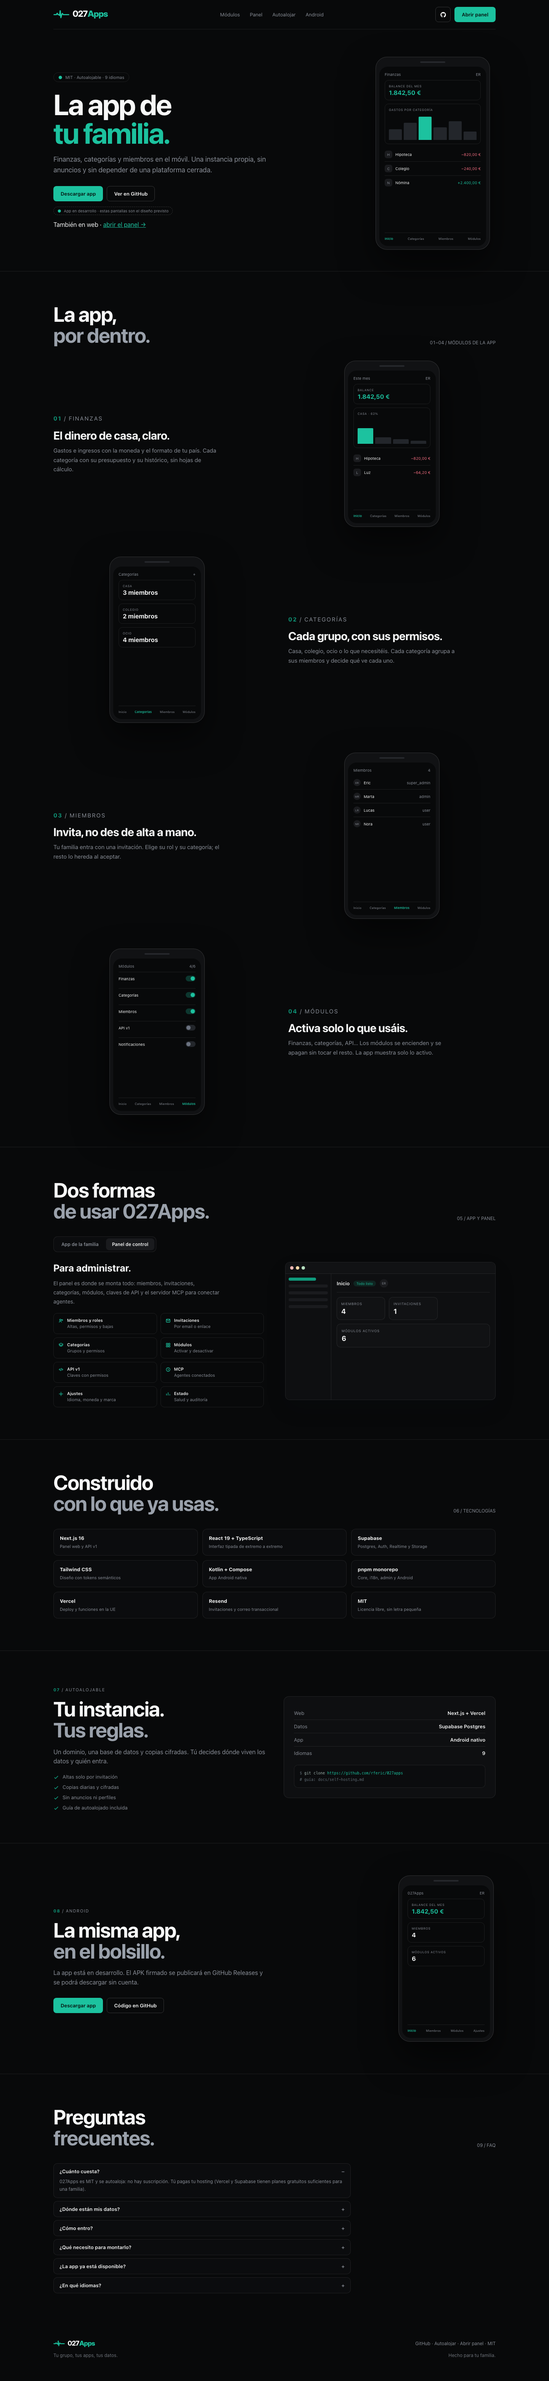
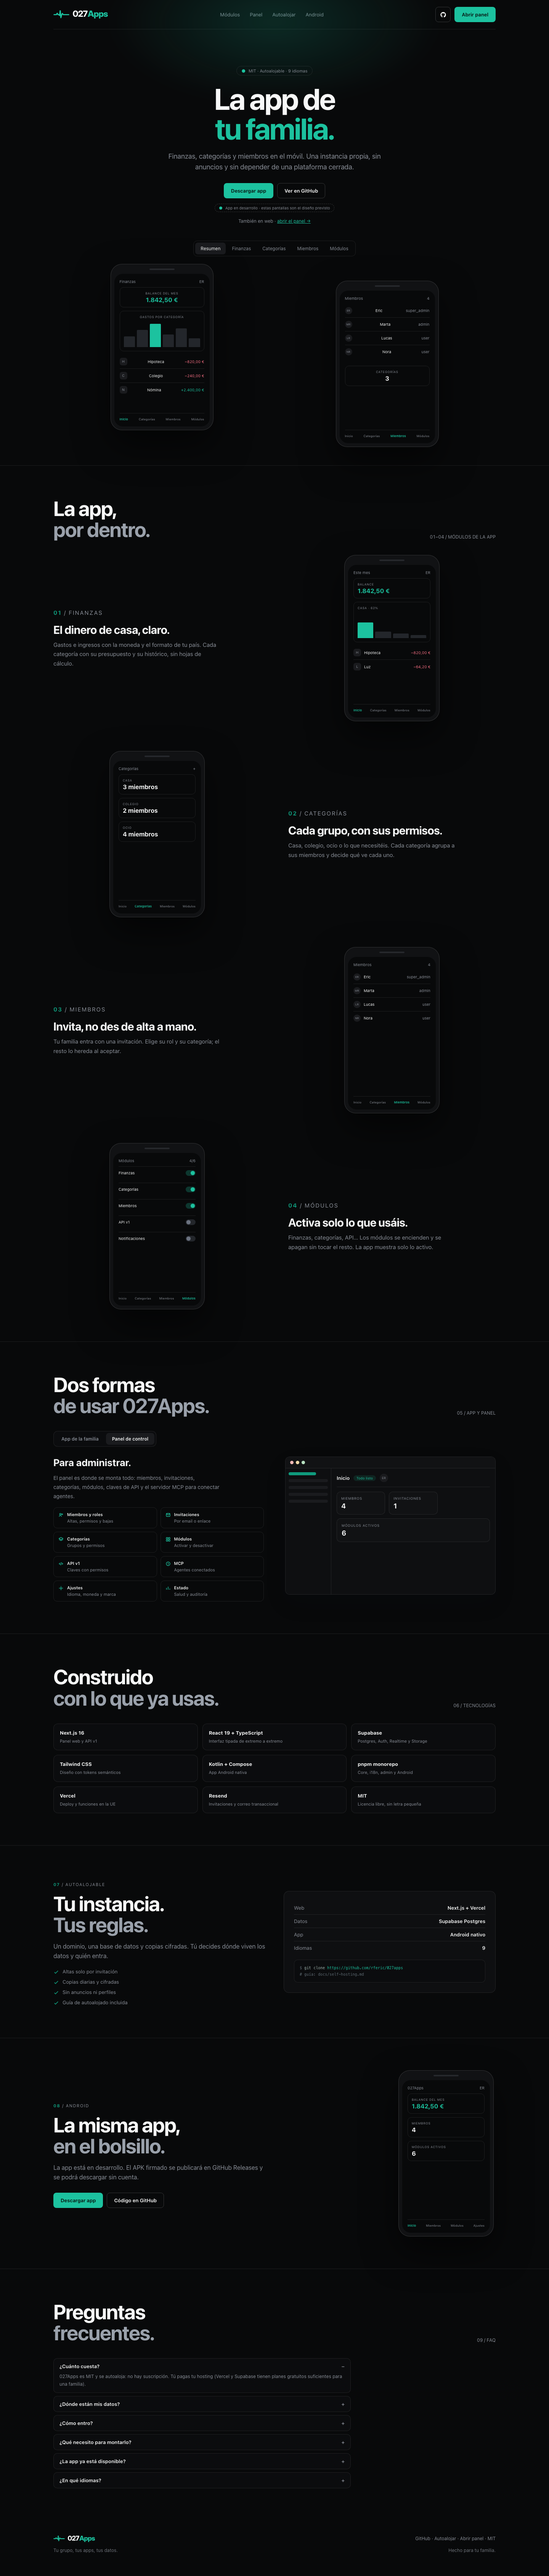
docs(landing): center the app-first hero and restore the glow

diff --git a/docs/mockups/landing/v2-app.html b/docs/mockups/landing/v2-app.html
@@ -28,10 +28,11 @@
       </nav>
     </div>
 
-    <header class="wrap app-hero">
-      <div>
+    <header class="center-hero">
+      <div class="hero-glow"></div>
+      <div class="wrap" style="position: relative">
         <span class="badge" style="display: inline-flex; align-items: center; gap: 8px; border: 1px solid var(--border); border-radius: 999px; padding: 5px 12px; font-size: 11px; color: var(--muted)"><b style="color: #1cc29f">●</b> MIT · Autoalojable · 9 idiomas</span>
-        <h1 class="display" style="margin-top: 22px">La app de<br /><span style="color: #1cc29f">tu familia.</span></h1>
+        <h1>La app de<br /><span style="color: #1cc29f">tu familia.</span></h1>
         <p class="lead">
           Finanzas, categorías y miembros en el móvil. Una instancia propia, sin anuncios y
           sin depender de una plataforma cerrada.
@@ -41,21 +42,45 @@
           <a class="btn ghost" href="https://github.com/rferic/027apps">Ver en GitHub</a>
         </div>
         <p style="margin-top: 14px"><span class="note-pill"><b>●</b> App en desarrollo · estas pantallas son el diseño previsto</span></p>
-        <p class="sub" style="text-align: left; margin-top: 12px">También en web · <a href="/login" style="color: #1cc29f">abrir el panel →</a></p>
-      </div>
+        <p class="sub">También en web · <a href="/login" style="color: #1cc29f">abrir el panel →</a></p>
 
-      <div class="phone lg">
-        <div class="notch"></div>
-        <div class="screen">
-          <div class="ph-head"><span>Finanzas</span><span>ER</span></div>
-          <div class="ph-card"><div class="k">Balance del mes</div><div class="v teal">1.842,50 €</div></div>
-          <div class="ph-card"><div class="k">Gastos por categoría</div><div class="ph-bars"><i style="height: 42%"></i><i style="height: 68%"></i><i class="hi" style="height: 92%"></i><i style="height: 50%"></i><i style="height: 74%"></i><i style="height: 34%"></i></div></div>
-          <div class="ph-list">
-            <div class="ph-item"><span class="ph-dot">H</span><span class="who">Hipoteca</span><span class="amt neg">−820,00 €</span></div>
-            <div class="ph-item"><span class="ph-dot">C</span><span class="who">Colegio</span><span class="amt neg">−240,00 €</span></div>
-            <div class="ph-item"><span class="ph-dot">N</span><span class="who">Nómina</span><span class="amt pos">+2.400,00 €</span></div>
+        <div class="tabs">
+          <span class="on">Resumen</span>
+          <span>Finanzas</span>
+          <span>Categorías</span>
+          <span>Miembros</span>
+          <span>Módulos</span>
+        </div>
+
+        <div class="phones">
+          <div class="phone lg">
+            <div class="notch"></div>
+            <div class="screen">
+              <div class="ph-head"><span>Finanzas</span><span>ER</span></div>
+              <div class="ph-card"><div class="k">Balance del mes</div><div class="v teal">1.842,50 €</div></div>
+              <div class="ph-card"><div class="k">Gastos por categoría</div><div class="ph-bars"><i style="height: 42%"></i><i style="height: 68%"></i><i class="hi" style="height: 92%"></i><i style="height: 50%"></i><i style="height: 74%"></i><i style="height: 34%"></i></div></div>
+              <div class="ph-list">
+                <div class="ph-item"><span class="ph-dot">H</span><span class="who">Hipoteca</span><span class="amt neg">−820,00 €</span></div>
+                <div class="ph-item"><span class="ph-dot">C</span><span class="who">Colegio</span><span class="amt neg">−240,00 €</span></div>
+                <div class="ph-item"><span class="ph-dot">N</span><span class="who">Nómina</span><span class="amt pos">+2.400,00 €</span></div>
+              </div>
+              <div class="ph-tabs"><b>Inicio</b><span>Categorías</span><span>Miembros</span><span>Módulos</span></div>
+            </div>
           </div>
-          <div class="ph-tabs"><b>Inicio</b><span>Categorías</span><span>Miembros</span><span>Módulos</span></div>
+          <div class="phone lg">
+            <div class="notch"></div>
+            <div class="screen">
+              <div class="ph-head"><span>Miembros</span><span>4</span></div>
+              <div class="ph-list">
+                <div class="ph-item"><span class="mini-avatar">ER</span><span class="who">Eric</span><span class="amt">super_admin</span></div>
+                <div class="ph-item"><span class="mini-avatar">MR</span><span class="who">Marta</span><span class="amt">admin</span></div>
+                <div class="ph-item"><span class="mini-avatar">LR</span><span class="who">Lucas</span><span class="amt">user</span></div>
+                <div class="ph-item"><span class="mini-avatar">NR</span><span class="who">Nora</span><span class="amt">user</span></div>
+              </div>
+              <div class="ph-card" style="margin-top: 10px"><div class="k">Categorías</div><div class="v">3</div></div>
+              <div class="ph-tabs"><span>Inicio</span><span>Categorías</span><b>Miembros</b><span>Módulos</span></div>
+            </div>
+          </div>
         </div>
       </div>
     </header>

diff --git a/docs/mockups/landing/index.html b/docs/mockups/landing/index.html
@@ -1,0 +1,54 @@
+<!doctype html>
+<html lang="es">
+  <head>
+    <meta charset="utf-8" />
+    <meta name="viewport" content="width=device-width, initial-scale=1" />
+    <title>Mockups · landing 027Apps</title>
+    <style>
+      body { margin: 0; background: #08090a; color: #f7f8f8; font-family: -apple-system, BlinkMacSystemFont, "Segoe UI", Roboto, sans-serif; }
+      main { max-width: 760px; margin: 0 auto; padding: 56px 24px; }
+      h1 { font-size: 28px; letter-spacing: -0.02em; margin: 0 0 8px; }
+      p { color: #8a8f98; font-size: 14px; line-height: 1.6; }
+      ul { list-style: none; padding: 0; margin: 28px 0 0; display: flex; flex-direction: column; gap: 10px; }
+      a.card { display: block; border: 1px solid rgba(255,255,255,.1); border-radius: 12px; padding: 16px 18px; text-decoration: none; color: inherit; }
+      a.card:hover { border-color: rgba(28,194,159,.5); }
+      a.card strong { display: block; font-size: 15px; margin-bottom: 3px; }
+      a.card span { color: #8a8f98; font-size: 12px; }
+      a.card.primary { border-color: rgba(28,194,159,.45); background: rgba(28,194,159,.06); }
+      code { color: #1cc29f; font-size: 12px; }
+    </style>
+  </head>
+  <body>
+    <main>
+      <h1>Mockups de la landing</h1>
+      <p>Revisión local. Abre cada dirección en el navegador; la elegida es la primera.</p>
+      <ul>
+        <li>
+          <a class="card primary" href="v2-app.html">
+            <strong>v2-app · app primero (elegida)</strong>
+            <span>Hero de la app, cuatro módulos con su pantalla y switch App / Panel.</span>
+          </a>
+        </li>
+        <li>
+          <a class="card" href="v2.html">
+            <strong>v2 · oscuro centrado</strong>
+            <span>La base anterior, centrada en el panel.</span>
+          </a>
+        </li>
+        <li>
+          <a class="card" href="v1.html">
+            <strong>v1 · editorial claro</strong>
+            <span>Referencia de lerd.</span>
+          </a>
+        </li>
+        <li>
+          <a class="card" href="v3.html">
+            <strong>v3 · cálido</strong>
+            <span>Referencia familiar.</span>
+          </a>
+        </li>
+      </ul>
+      <p style="margin-top: 24px">Los PNG de cada una están en la misma carpeta (<code>v2-app.png</code>, <code>v2-app-panel.png</code>, <code>v2-app-mobile.png</code>).</p>
+    </main>
+  </body>
+</html>

diff --git a/docs/mockups/landing/landing.css b/docs/mockups/landing/landing.css
@@ -500,3 +500,13 @@ body.warm .accent-warm { color: #b45309; }
   .segmented { width: 100%; }
   .segmented button { flex: 1; }
 }
+
+/* Two phones, staggered, under the centered hero. */
+.phones { display: flex; justify-content: center; align-items: flex-start; gap: 22px; margin-top: 20px; }
+.phones .phone { width: 270px; }
+.phones .phone + .phone { margin-top: 44px; }
+@media (max-width: 900px) {
+  .phones { gap: 12px; }
+  .phones .phone { width: 240px; }
+  .phones .phone + .phone { display: none; }
+}
